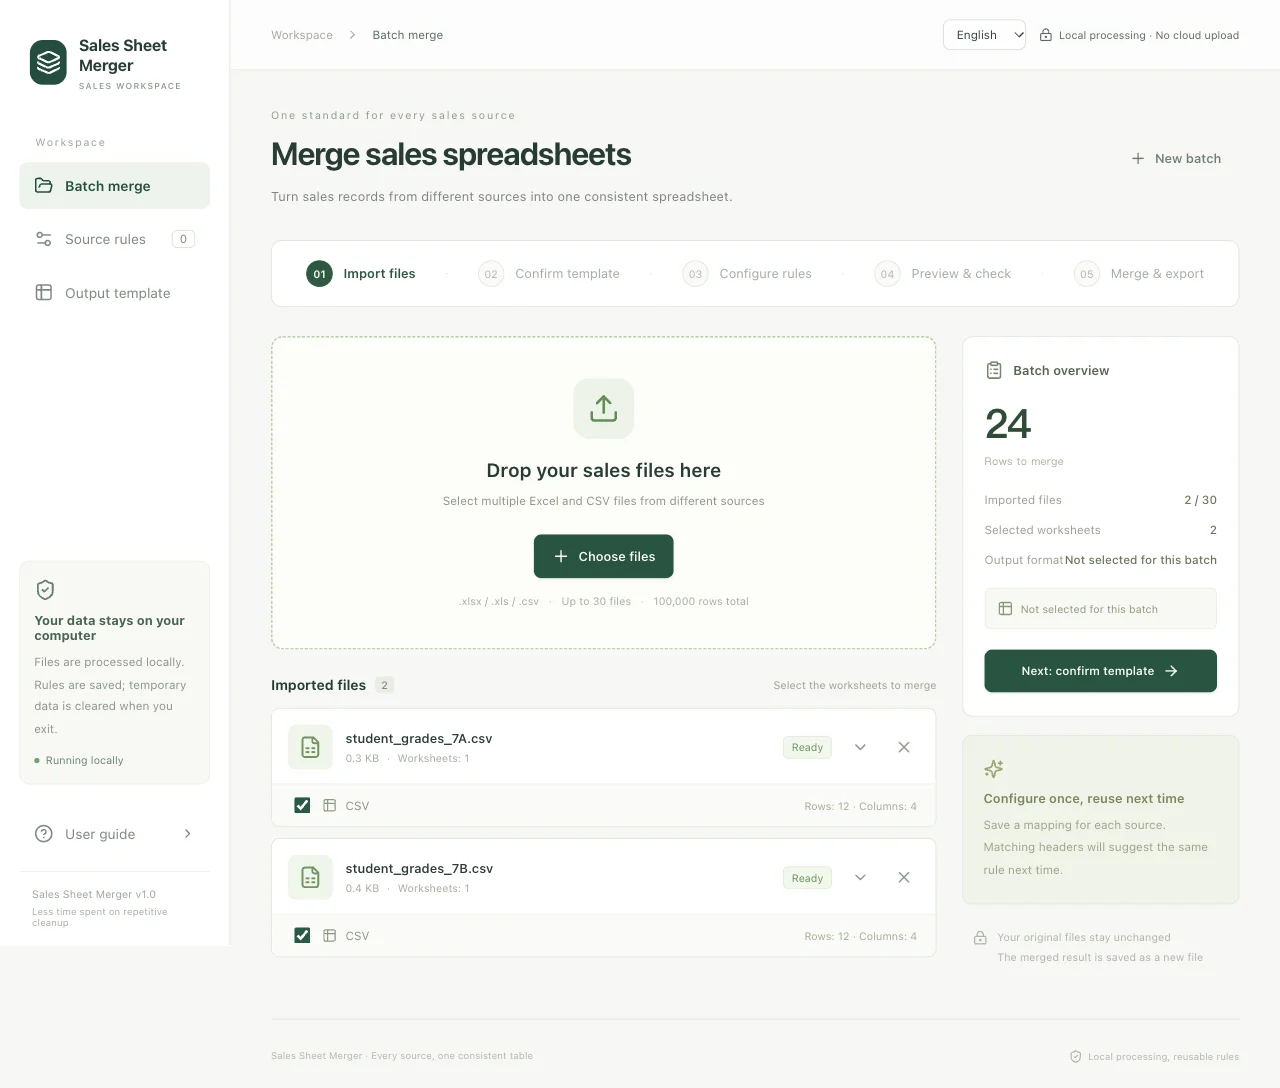
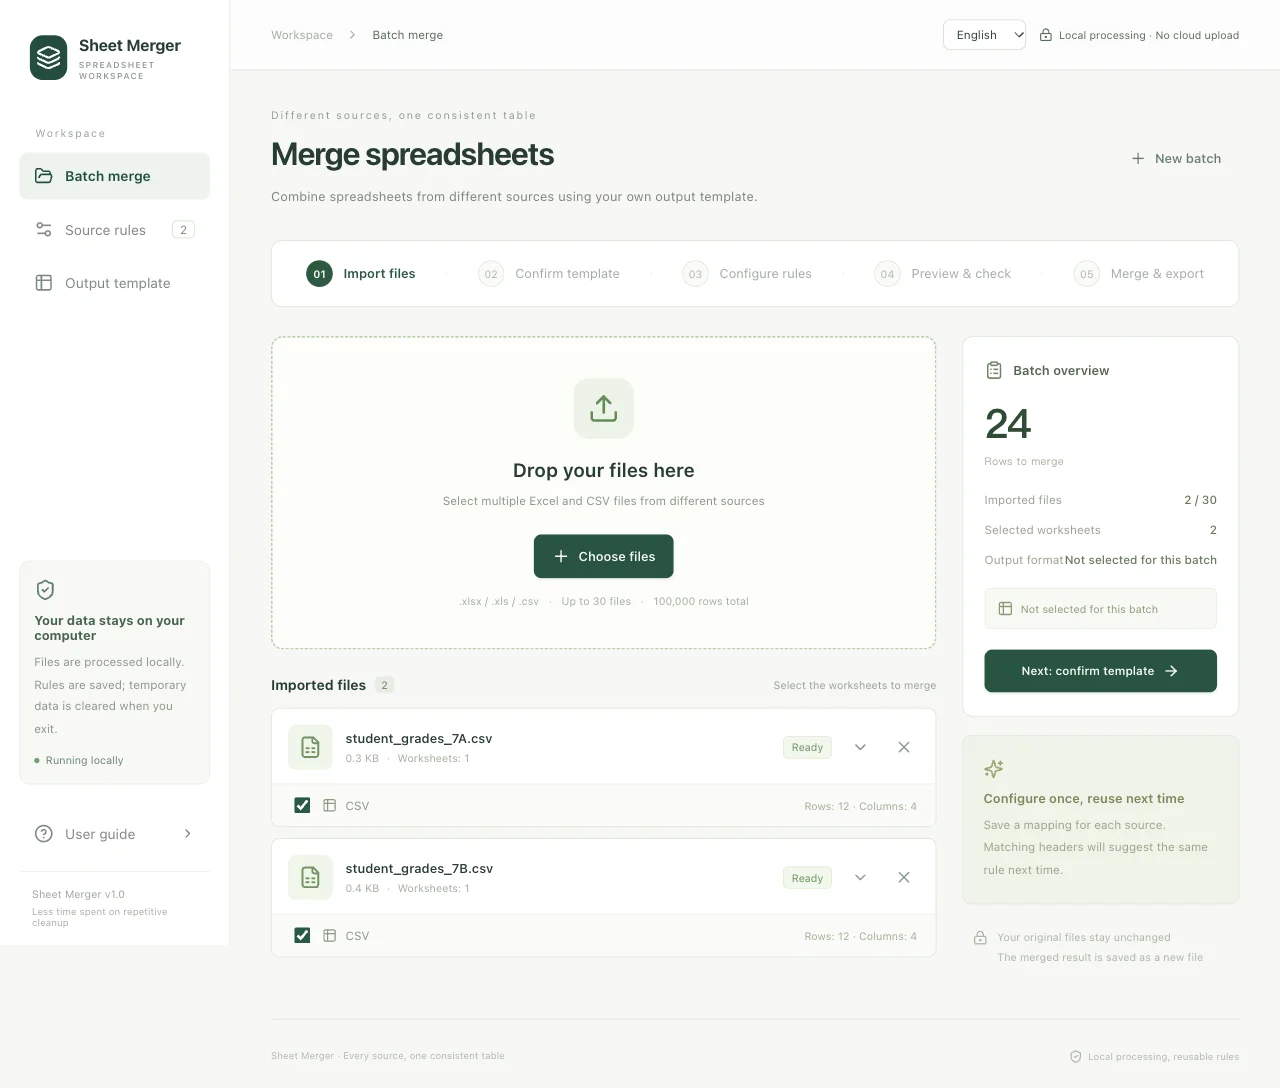
Rename product to Sheet Merger and generalize spreadsheet copy

diff --git a/frontend/src/main.tsx b/frontend/src/main.tsx
@@ -631,7 +631,7 @@ function App() {
     return (
       <div className="boot">
         <Layers3 size={38} />
-        <h2>{t("ui.salesSheetMerger")}</h2>
+        <h2>{t("ui.sheetMerger")}</h2>
         <LanguageSwitcher />
         <p>{renderMessage(error) || t("ui.openingYourLocalWorkspace")}</p>
         {error && (
@@ -655,7 +655,7 @@ function App() {
             <Layers3 size={24} />
           </span>
           <span className="brand-name">
-            {t("ui.salesSheetMerger")}
+            {t("ui.sheetMerger")}
             <small>{t("ui.brandSubtitle")}</small>
           </span>
         </a>
@@ -707,7 +707,7 @@ function App() {
           <ChevronRight size={14} />
         </button>
         <div className="sidebar-version">
-          {t("ui.salesSheetMergerV10")}
+          {t("ui.sheetMergerV10")}
           <span>{t("ui.lessTimeSpentOnRepetitiveCleanup")}</span>
         </div>
       </aside>
@@ -759,10 +759,10 @@ function App() {
               <div className="page-heading">
                 <div>
                   <div className="eyebrow">
-                    {t("ui.oneStandardForEverySalesSource")}
+                    {t("ui.oneStandardForEverySource")}
                   </div>
-                  <h1>{t("ui.mergeSalesSpreadsheets")}</h1>
-                  <p>{t("ui.turnSalesRecordsFromDifferentSourcesInto")}</p>
+                  <h1>{t("ui.mergeSpreadsheets")}</h1>
+                  <p>{t("ui.turnRecordsFromDifferentSourcesInto")}</p>
                 </div>
                 {files.length > 0 && !running && (
                   <button
@@ -830,7 +830,7 @@ function App() {
                         )}
                       </span>
                       <h2>
-                        {renderMessage(busy) || t("ui.dropYourSalesFilesHere")}
+                        {renderMessage(busy) || t("ui.dropYourFilesHere")}
                       </h2>
                       <p>{t("ui.selectMultipleExcelAndCsvFilesFrom")}</p>
                       <button
@@ -848,7 +848,7 @@ function App() {
                       </div>
                       <input
                         ref={uploadRef}
-                        aria-label={t("ui.uploadSalesFiles")}
+                        aria-label={t("ui.uploadFiles")}
                         type="file"
                         multiple
                         accept=".xlsx,.xls,.csv"
@@ -871,7 +871,7 @@ function App() {
                         <div>
                           {t("ui.noFilesImportedYet")}
                           <small>
-                            {t("ui.startWithSalesRecordsExportedFromYour")}
+                            {t("ui.startWithSpreadsheetsFromAnySource")}
                           </small>
                         </div>
                       </div>
@@ -1544,7 +1544,7 @@ function App() {
                   <div className="large-empty">
                     <Settings2 size={34} />
                     <h2>{t("ui.noSourceRulesSavedYet")}</h2>
-                    <p>{t("ui.importASalesSpreadsheetAndSaveIts")}</p>
+                    <p>{t("ui.importASpreadsheetAndSaveIts")}</p>
                     <button
                       className="btn primary"
                       onClick={() => {
@@ -1689,7 +1689,7 @@ function App() {
             />
           )}
           <footer className="page-footer">
-            <span>{t("ui.salesSheetMergerEverySourceOneConsistent")}</span>
+            <span>{t("ui.sheetMergerEverySourceOneConsistent")}</span>
             <span>
               <ShieldCheck size={13} />
               {t("ui.localProcessingReusableRules")}
@@ -1914,7 +1914,7 @@ function RuleEditor({
               value={draft.name}
               maxLength={100}
               onChange={(e) => setDraft({ ...draft, name: e.target.value })}
-              placeholder={t("ui.eGMarketplaceSalesExport")}
+              placeholder={t("ui.eGSourceExport")}
             />
           </label>
           <div className="mapping-head">

diff --git a/frontend/src/TemplateEditor.tsx b/frontend/src/TemplateEditor.tsx
@@ -12,7 +12,7 @@ import {
 import { useI18n } from "./i18n";
 import {
   initialTemplateDraft,
-  SALES_TEMPLATE_EXAMPLE,
+  OUTPUT_TEMPLATE_EXAMPLE,
   validTemplateDraft,
   type Template,
   type Column,
@@ -173,15 +173,15 @@ export function TemplateEditor({
         <div className="panel template-example">
           <div className="section-heading">
             <div>
-              <h2>{t("ui.salesTemplateExample")}</h2>
+              <h2>{t("ui.outputTemplateExample")}</h2>
               <p>{t("ui.templateExampleExplanation")}</p>
             </div>
           </div>
           <strong>
-            {t("ui.exampleValue", { value: SALES_TEMPLATE_EXAMPLE.name })}
+            {t("ui.exampleValue", { value: OUTPUT_TEMPLATE_EXAMPLE.name })}
           </strong>
           <div className="example-columns">
-            {SALES_TEMPLATE_EXAMPLE.columns.map((c) => (
+            {OUTPUT_TEMPLATE_EXAMPLE.columns.map((c) => (
               <span key={c.id}>{t("ui.exampleValue", { value: c.name })}</span>
             ))}
           </div>
@@ -193,7 +193,7 @@ export function TemplateEditor({
           <input
             value={draft.name}
             placeholder={t("ui.exampleValue", {
-              value: SALES_TEMPLATE_EXAMPLE.name,
+              value: OUTPUT_TEMPLATE_EXAMPLE.name,
             })}
             maxLength={80}
             onChange={(e) => setDraft({ ...draft, name: e.target.value })}
@@ -221,7 +221,7 @@ export function TemplateEditor({
                     value={c.name}
                     placeholder={t("ui.exampleValue", {
                       value:
-                        SALES_TEMPLATE_EXAMPLE.columns[i]?.name ||
+                        OUTPUT_TEMPLATE_EXAMPLE.columns[i]?.name ||
                         t("ui.targetColumnName"),
                     })}
                     maxLength={80}
@@ -338,7 +338,7 @@ export function TemplateEditor({
           onCancel={() => setConfirmReset(false)}
           onConfirm={async () => {
             if (await onReset()) {
-              setDraft(initialTemplateDraft(SALES_TEMPLATE_EXAMPLE, false));
+              setDraft(initialTemplateDraft(OUTPUT_TEMPLATE_EXAMPLE, false));
               setShowExample(true);
             }
             setConfirmReset(false);

diff --git a/frontend/src/template-state.ts b/frontend/src/template-state.ts
@@ -7,17 +7,13 @@ export type Column = {
 export type Template = { name: string; columns: Column[] };
 
 // Display-only examples. New drafts never copy these values into input fields.
-export const SALES_TEMPLATE_EXAMPLE: Template = {
-  name: "Standard Sales Details",
+export const OUTPUT_TEMPLATE_EXAMPLE: Template = {
+  name: "Output Template",
   columns: [
-    { id: "date", name: "Date", type: "date", required: true },
-    { id: "order_id", name: "Order ID", type: "text", required: false },
-    { id: "sku", name: "SKU", type: "text", required: false },
-    { id: "product", name: "Product", type: "text", required: false },
-    { id: "quantity", name: "Quantity", type: "number", required: false },
-    { id: "price", name: "Unit Price", type: "number", required: false },
-    { id: "amount", name: "Sales Amount", type: "number", required: true },
-    { id: "channel", name: "Channel", type: "text", required: false },
+    { id: "record_id", name: "Record ID", type: "text", required: false },
+    { id: "name", name: "Name", type: "text", required: false },
+    { id: "date", name: "Date", type: "date", required: false },
+    { id: "value", name: "Value", type: "number", required: false },
   ],
 };
 

diff --git a/frontend/src/TemplateManager.tsx b/frontend/src/TemplateManager.tsx
@@ -25,7 +25,7 @@ import {
   type SavedTemplate,
   type TemplateDocument,
 } from "./template-files";
-import { SALES_TEMPLATE_EXAMPLE, type Template } from "./template-state";
+import { OUTPUT_TEMPLATE_EXAMPLE, type Template } from "./template-state";
 
 type Props = {
   templates: SavedTemplate[];
@@ -167,7 +167,7 @@ export function TemplateManager(props: Props) {
       {editing !== null ? (
         <TemplateEditor
           key={editing}
-          template={edited?.template ?? SALES_TEMPLATE_EXAMPLE}
+          template={edited?.template ?? OUTPUT_TEMPLATE_EXAMPLE}
           configured={!!edited}
           returnToBatch
           onReturn={() => setEditing(null)}

diff --git a/frontend/src/i18n.tsx b/frontend/src/i18n.tsx
@@ -28,7 +28,7 @@ export function I18nProvider({ children }: { children: ReactNode }) {
   useEffect(() => {
     document.documentElement.lang = locale;
     document.title =
-      locale === "en" ? "Sales Sheet Merger" : "归表 · 销售表合并工具";
+      locale === "en" ? "Sheet Merger" : "归表 · 表格批量合并工具";
   }, [locale]);
   return (
     <Context.Provider

diff --git a/frontend/src/template-files.ts b/frontend/src/template-files.ts
@@ -44,7 +44,7 @@ export function chooseTemplateFile(
     id: "sales-output-template",
     suggestedName:
       fileName ||
-      `${template.name.replace(/[<>:"/\\|?*\x00-\x1f]/g, "_")}.sales-template.json`,
+      `${template.name.replace(/[<>:"/\\|?*\x00-\x1f]/g, "_")}.sheet-template.json`,
     types: [
       {
         description: "Output template (JSON)",

diff --git a/frontend/index.html b/frontend/index.html
@@ -4,7 +4,7 @@
     <meta charset="UTF-8" />
     <meta name="viewport" content="width=device-width, initial-scale=1.0" />
     <meta name="theme-color" content="#183b32" />
-    <title>Sales Sheet Merger</title>
+    <title>Sheet Merger</title>
   </head>
   <body>
     <div id="root"></div>

diff --git a/tests/test_merger.py b/tests/test_merger.py
@@ -118,8 +118,8 @@ def test_three_sources_preview_export_and_reuse(client):
     assert issue['row'] == 4 and issue['raw'][0] == 'bad-date'
     result = client.get(f'/api/jobs/{job["id"]}/export')
     book = load_workbook(io.BytesIO(result.content), data_only=False)
-    assert book.sheetnames == ['Sales Details']
-    details = book['Sales Details']
+    assert book.sheetnames == ['Merged Data']
+    details = book['Merged Data']
     assert details['B2'].value == '000123' and details['B2'].data_type == 's'
     assert details['D2'].value == '=literal' and details['D2'].data_type == 's'
     assert details['A2'].is_date and details['G2'].data_type == 'n'
@@ -173,7 +173,7 @@ def test_invalid_numbers(value, style):
 
 def test_header_correction_encoding_and_unreadable_file_block(client):
     headers = ['日期','金额']
-    data = excel(['销售明细'], [headers, ['2026-10-27', 10]], {'说明':[['备注']]})
+    data = excel(['合并明细'], [headers, ['2026-10-27', 10]], {'说明':[['备注']]})
     batch, files = upload(client, [('标题行.xlsx',data), ('损坏.xlsx',b'not an excel file')])
     first = files[0]
     rechecked = client.post(f'/api/batches/{batch}/files/{first["id"]}/inspect', json={'header_rows':{'明细':2}}).json()
@@ -241,8 +241,8 @@ def test_long_problem_values_stay_available_in_page_results_not_excel(client):
     job = run(client,batch,request_for(files,[rule]))
     assert job['summary']['issues'] == 1 and job['summary']['valid'] == 0
     book = load_workbook(io.BytesIO(client.get(f'/api/jobs/{job["id"]}/export').content),data_only=True)
-    assert book.sheetnames == ['Sales Details']
-    assert book['Sales Details'].max_row == 1
+    assert book.sheetnames == ['Merged Data']
+    assert book['Merged Data'].max_row == 1
     problem = client.get(f'/api/jobs/{job["id"]}/rows?kind=issues').json()['rows'][0]
     assert problem['raw'] == ['bad','1',long_text]
     assert any(reason['code'] == 'text_length' for reason in problem['reasons'])
@@ -294,10 +294,10 @@ def test_thirty_files_one_hundred_thousand_rows(client):
     page = client.get(f'/api/jobs/{job["id"]}/rows?page=2000').json()
     assert len(page['rows']) == 50 and page['rows'][-1]['values'][1] == '00099999'
     book = load_workbook(io.BytesIO(client.get(f'/api/jobs/{job["id"]}/export').content),read_only=True,data_only=True)
-    assert book.sheetnames == ['Sales Details']
+    assert book.sheetnames == ['Merged Data']
     count = 0
     total = Decimal(0)
-    for row in book['Sales Details'].iter_rows(min_row=2,values_only=True):
+    for row in book['Merged Data'].iter_rows(min_row=2,values_only=True):
         count += 1
         total += Decimal(str(row[6]))
     assert count == 100000 and total == Decimal('110000.0')

diff --git a/backend/app.py b/backend/app.py
@@ -93,7 +93,7 @@ async def lifespan(app):
         handle.close()
 
 
-app = FastAPI(title='Sales Sheet Merger', lifespan=lifespan)
+app = FastAPI(title='Sheet Merger', lifespan=lifespan)
 
 
 @app.middleware('http')
@@ -277,7 +277,7 @@ def delete_rule(rule_id: str):
 
 @app.get('/api/config/export')
 def export_config():
-    return JSONResponse(load_library().model_dump(), headers={'Content-Disposition': 'attachment; filename="sales-rules.json"'})
+    return JSONResponse(load_library().model_dump(), headers={'Content-Disposition': 'attachment; filename="sheet-rules.json"'})
 
 
 @app.post('/api/config/import')
@@ -496,7 +496,7 @@ def append_text(ws, values, heading=False):
 
 def export_workbook(job, db, template):
     book = Workbook(write_only=True)
-    details = book.create_sheet(text('sheet_sales'))
+    details = book.create_sheet(text('sheet_details'))
     details.freeze_panes = 'A2'
     for index in range(1, len(template.columns) + 1):
         details.column_dimensions[get_column_letter(index)].width = 20
@@ -579,7 +579,7 @@ def download(job_id: str):
     job = job_for(job_id)
     if job['status'] != 'done':
         raise Problem(409, 'job_incomplete')
-    return FileResponse(job['output'], filename=f'sales-merged-{date.today().isoformat()}.xlsx',
+    return FileResponse(job['output'], filename=f'sheets-merged-{date.today().isoformat()}.xlsx',
                         media_type='application/vnd.openxmlformats-officedocument.spreadsheetml.sheet')
 
 

diff --git a/backend/models.py b/backend/models.py
@@ -13,7 +13,7 @@ class Column(BaseModel):
 
 
 class Template(BaseModel):
-    name: str = Field(default='Standard Sales Details', min_length=1, max_length=80)
+    name: str = Field(default='Output Template', min_length=1, max_length=80)
     columns: list[Column] = Field(min_length=1, max_length=100)
 
     @model_validator(mode='after')
@@ -129,6 +129,6 @@ DEFAULT_TEMPLATE = Template(columns=[
     Column(id='product', name='Product'),
     Column(id='quantity', name='Quantity', type='number'),
     Column(id='price', name='Unit Price', type='number'),
-    Column(id='amount', name='Sales Amount', type='number', required=True),
+    Column(id='amount', name='Amount', type='number', required=True),
     Column(id='channel', name='Channel'),
 ])

diff --git a/tests/test_i18n.py b/tests/test_i18n.py
@@ -54,8 +54,8 @@ def test_stored_file_errors_retranslate_without_reimport(client):
     assert client.get(f'/api/batches/{batch}').json()['files'][0]['sheets'][0]['error'].startswith('Headers contain')
 
 
-@pytest.mark.parametrize('locale,sheets', [('en',['Sales Details']),
-                                         ('zh-CN',['销售明细'])])
+@pytest.mark.parametrize('locale,sheets', [('en',['Merged Data']),
+                                         ('zh-CN',['合并明细'])])
 def test_export_language_snapshot_and_business_values(client,locale,sheets):
     headers=['日期','订单号','收入']
     batch,files=upload(client,[('客户原始.csv',csv_bytes(headers,[['2026-10-27','000123','1.10'],['invalid','000124','2']]))])

diff --git a/launcher.py b/launcher.py
@@ -31,7 +31,7 @@ def main():
             if process.poll() is not None:
                 raise SystemExit('Startup failed. Check whether port 8765 is in use or another instance is running.')
             if is_running():
-                print('Sales Sheet Merger is running: ' + URL + '\nKeep this window open. Press Control-C to exit and clear temporary data.')
+                print('Sheet Merger is running: ' + URL + '\nKeep this window open. Press Control-C to exit and clear temporary data.')
                 webbrowser.open(URL)
                 break
             time.sleep(0.1)
